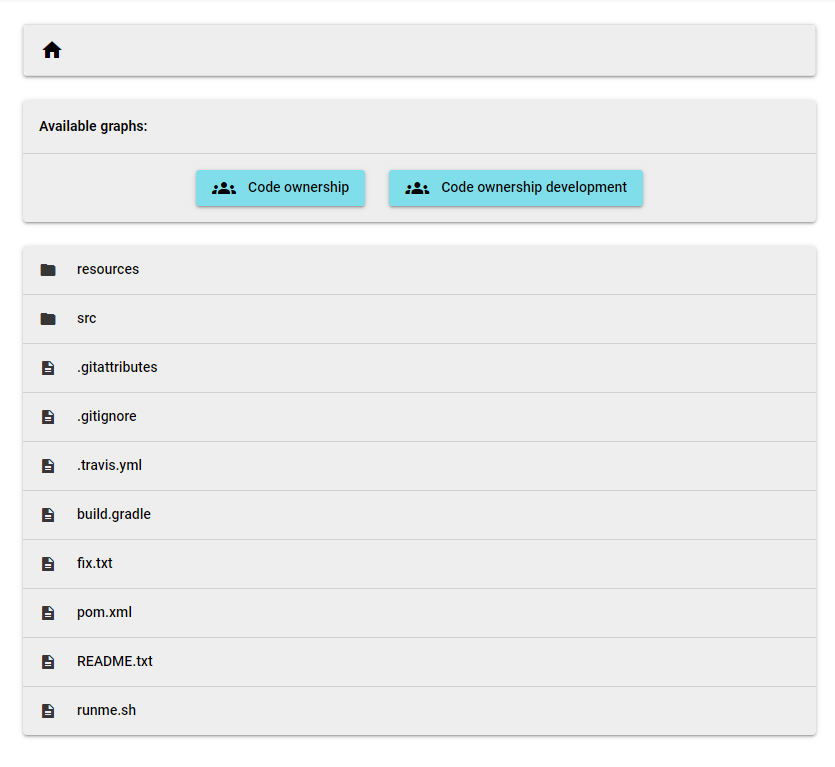
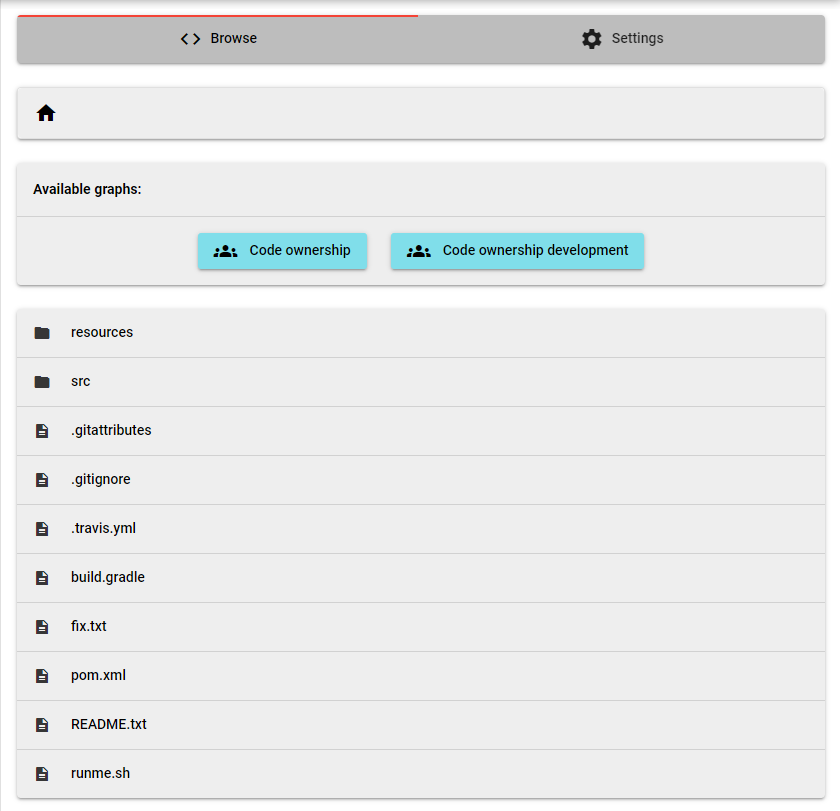
added author settings

diff --git a/README.md b/README.md
@@ -1,5 +1,6 @@
 # Hettel-RepositoryMining
-> The Hettel-RepositoryMining is a study project from the high school in Kaiserslautern Germany to detect developers
+> The Hettel-RepositoryMining is a study project from the university of applied sciences 
+> in Kaiserslautern Germany to detect developers
 > in a software-project which changed big parts of the code and therefore gained a massive amount of knowledge.
 > Such developers are really important for the workflow of the project and if they get sick, there will be no one who can 
 > exchange them. These persons are also known as head monopolies.
@@ -12,7 +13,7 @@
 > commit information into it. The repolog.log-file is the input for the RepositoryMining-Application.
 
 
-##Build
+## Build
 >### Frontend
 > The frontend was created with the Quasar-Framework. To execute it you have to install the Quasar cli. If you
 > haven't installed it yet you can follow the instructions on the quasar-website under the following link:
@@ -31,7 +32,7 @@
 
 
 
-##Usage
+## Usage
 >1. This is how the main menu looks like when you start the application for the first time.
 >There are no projects in the database and, you only have the opportunity to add a new project. 
 >Now click on the __add project__ button.
@@ -58,7 +59,8 @@
 > 
 > 
 > 4. If you pressed the __select-Button__ you'll be navigated to the __browse-project__-Screen. Here you have a folder 
-> structure like the one you had in your repository we cloned before in the 2. step in this tutorial.
+> structure like the one you had in your repository we cloned before in the 2. step in this tutorial. There is also a 
+> settings section where you can change your properties. 
 > ![img.png](ReadMe_Img/browse_project.png)
 >  The __available graphs-Section__ consists of two buttons:
 >   - Code ownership development: _shows a line chart with a timeline and the number of changed lines of code
@@ -74,14 +76,31 @@
 > <span style="color:#89cff0">__Information:__</span> if one of these graphs display to much information you can simply 
 > disable or enable single parts of the graph by clicking on the components name. For example in the pictures above
 > you can disable/enable the graph content by clicking on the author-name (Matthew McCullough) or the folder/file-name
-> (resource/, README.txt).
+> (resource/, README.txt). 
 > 
 > You can click on a single file or folder
 > to extend this folder and get deeper in the file-tree structure. For instance clicking on the __src-folder__ in the 
 > root directory leads you to the src-folder and the components of it (as you would it expect it)  
-> ![img.png](ReadMe_Img/clicked_src_folder.png)  
+> ![img.png](ReadMe_Img/clicked_src_folder.png) 
 > Leads you to:  
 > ![img.png](ReadMe_Img/src_folder_content.png)  
 > The header-section on the top of the picture above shows you the current path you are into. You can also change the 
 > directory by clicking on the path-components next to the tiny house or go back to the root directory by clicking on 
 > the tiny house.
+> 
+> 5. To get to the settings just click on the __Settings-Button__ on the top of the page. You are now
+> in the "Authors"-settings.  
+> ![img.png](ReadMe_Img/author_settings.png)
+> Here you can drag the different log-authors from one author group to another group author or create new authors and link a group of log-authors
+> to them. Every log-author who is in an author group is treated as one author and will be displayed in the graph visualizations.
+> With the small garbage can on the right site of every author group you can delete the
+> specific author.  
+> ![img.png](ReadMe_Img/two_logAuthors_in_one_author_group.png)  
+> In the picture above you can see that we draged the log-author "Matthew McCullough" into the author group of
+> Jordan McCullough. After saving the author settings by clicking on the __Save authors__-Button, commits of one 
+> of those two log-authors that get parsed and visualized, get treated as they 
+> were __both__ "Jordan McCullough".  
+> Clicking on __new author__ leads you to this dialog:
+> ![img.png](ReadMe_Img/new_author_dialog.png)  
+> Here you can type in the name for your new author and confirm it with the green ok-button. To exit the dialog without 
+> creating a new author just click in the abort-button.
